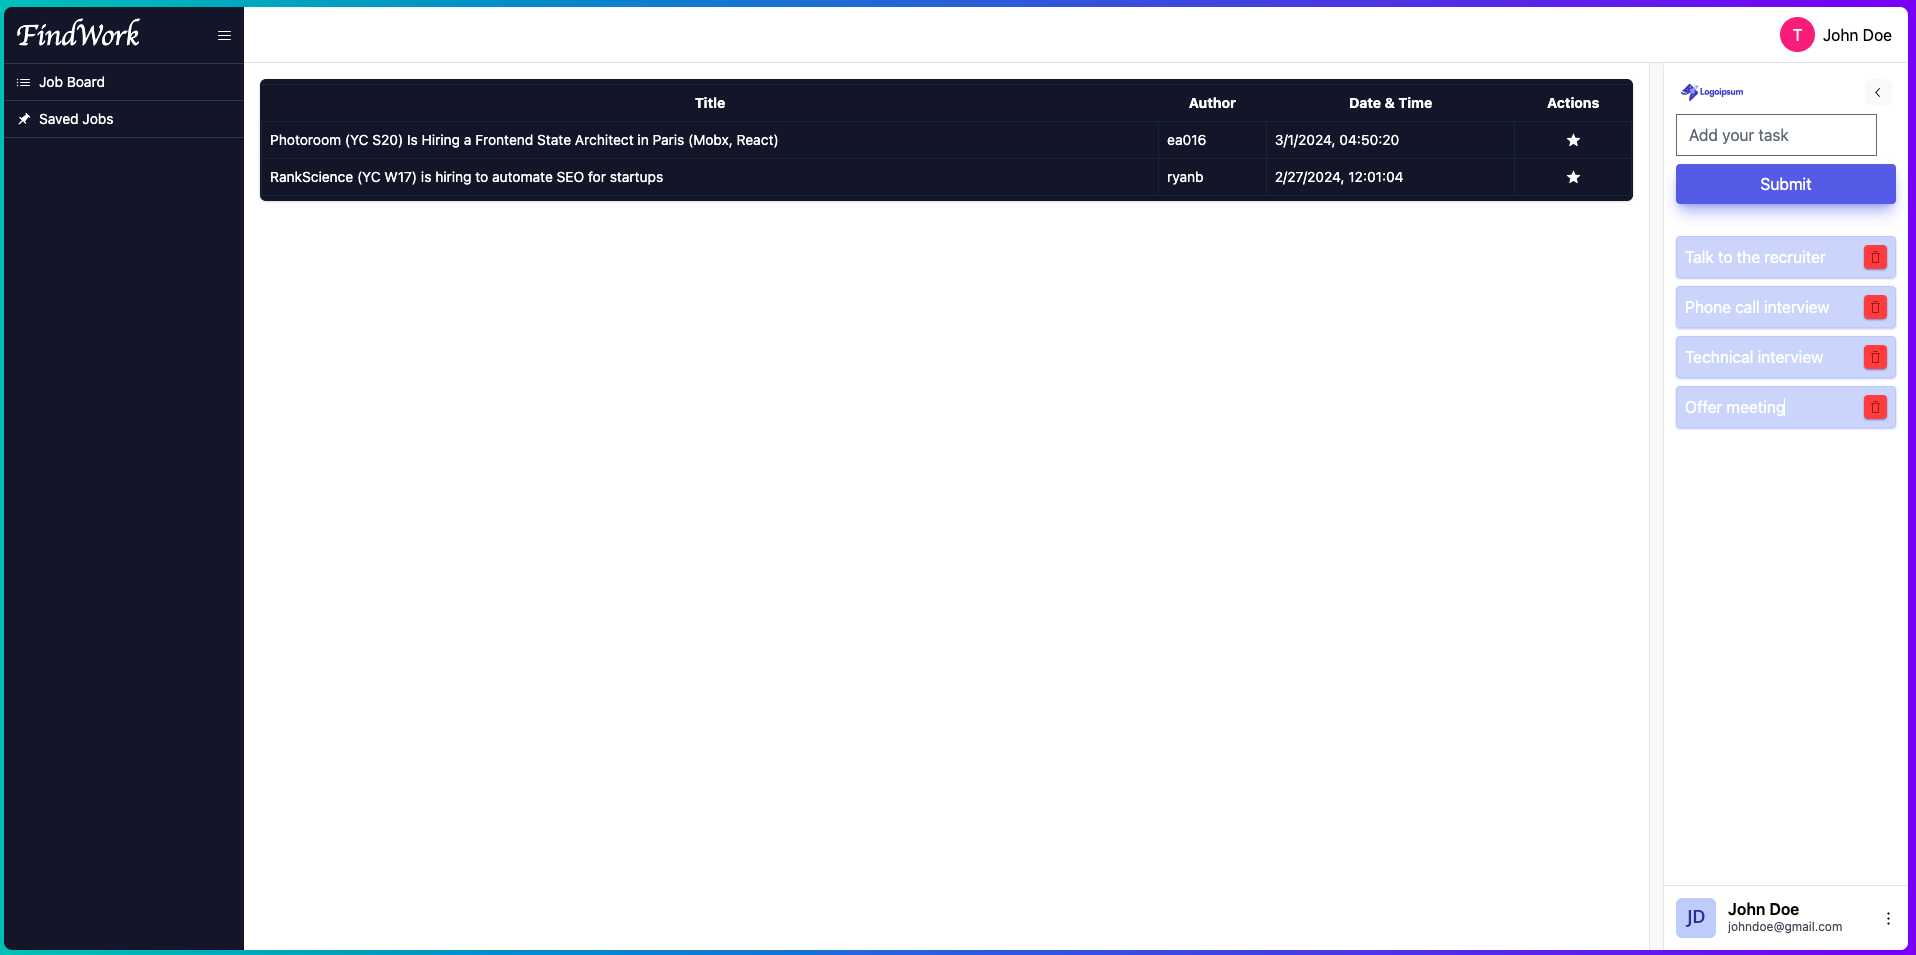
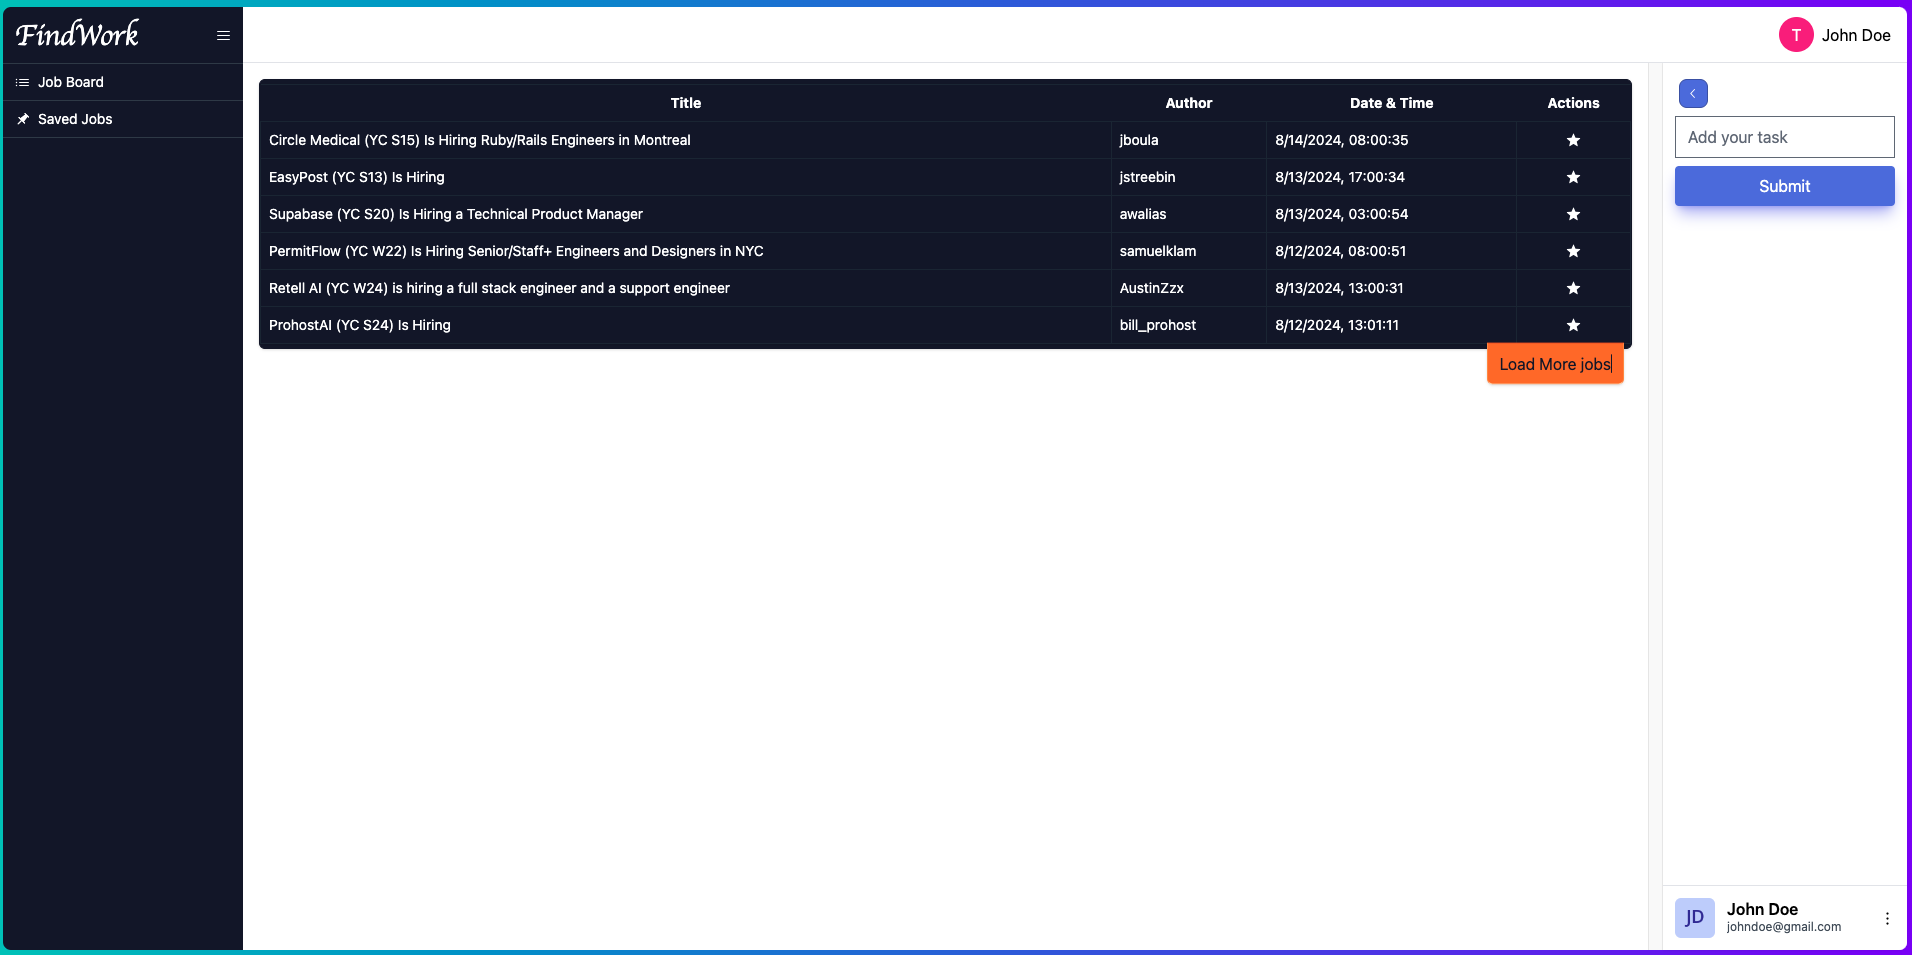
chore - small changes to todo list; replace screenshot for readme

diff --git a/src/tailwind-index.css b/src/tailwind-index.css
@@ -1080,7 +1080,7 @@ select {
   border-top-width: 2px;
 }
 
-.border-\[\#12172e\] {
+.border-fw-blue-900 {
   --tw-border-opacity: 1;
   border-color: rgb(18 23 46 / var(--tw-border-opacity));
 }
@@ -1114,6 +1114,16 @@ select {
   border-color: rgb(245 245 244 / var(--tw-border-opacity));
 }
 
+.border-fw-blue-500 {
+  --tw-border-opacity: 1;
+  border-color: rgb(60 77 151 / var(--tw-border-opacity));
+}
+
+.border-fw-blue-400 {
+  --tw-border-opacity: 1;
+  border-color: rgb(71 90 177 / var(--tw-border-opacity));
+}
+
 .border-b-orange-200 {
   --tw-border-opacity: 1;
   border-bottom-color: rgb(254 215 170 / var(--tw-border-opacity));
@@ -1134,14 +1144,14 @@ select {
   border-top-color: rgb(234 88 12 / var(--tw-border-opacity));
 }
 
-.bg-\[\#12172e\] {
-  --tw-bg-opacity: 1;
-  background-color: rgb(18 23 46 / var(--tw-bg-opacity));
-}
-
 .bg-blue-500 {
   --tw-bg-opacity: 1;
   background-color: rgb(59 130 246 / var(--tw-bg-opacity));
+}
+
+.bg-fw-blue-900 {
+  --tw-bg-opacity: 1;
+  background-color: rgb(18 23 46 / var(--tw-bg-opacity));
 }
 
 .bg-gray-50 {
@@ -1201,6 +1211,21 @@ select {
 .bg-white {
   --tw-bg-opacity: 1;
   background-color: rgb(255 255 255 / var(--tw-bg-opacity));
+}
+
+.bg-fw-blue-100 {
+  --tw-bg-opacity: 1;
+  background-color: rgb(102 130 255 / var(--tw-bg-opacity));
+}
+
+.bg-fw-blue-300 {
+  --tw-bg-opacity: 1;
+  background-color: rgb(81 103 203 / var(--tw-bg-opacity));
+}
+
+.bg-fw-blue-200 {
+  --tw-bg-opacity: 1;
+  background-color: rgb(92 117 229 / var(--tw-bg-opacity));
 }
 
 .bg-gradient-to-r {
@@ -1362,14 +1387,14 @@ select {
   line-height: 1rem;
 }
 
-.text-\[\#12172e\] {
-  --tw-text-opacity: 1;
-  color: rgb(18 23 46 / var(--tw-text-opacity));
-}
-
 .text-black {
   --tw-text-opacity: 1;
   color: rgb(0 0 0 / var(--tw-text-opacity));
+}
+
+.text-fw-blue-900 {
+  --tw-text-opacity: 1;
+  color: rgb(18 23 46 / var(--tw-text-opacity));
 }
 
 .text-gray-600 {
@@ -1537,6 +1562,16 @@ body {
 .hover\:bg-slate-900:hover {
   --tw-bg-opacity: 1;
   background-color: rgb(15 23 42 / var(--tw-bg-opacity));
+}
+
+.hover\:bg-fw-blue-500:hover {
+  --tw-bg-opacity: 1;
+  background-color: rgb(60 77 151 / var(--tw-bg-opacity));
+}
+
+.hover\:bg-fw-blue-100:hover {
+  --tw-bg-opacity: 1;
+  background-color: rgb(102 130 255 / var(--tw-bg-opacity));
 }
 
 .hover\:shadow-md:hover {

diff --git a/src/components/JobBoard/JobBoard.jsx b/src/components/JobBoard/JobBoard.jsx
@@ -67,19 +67,21 @@ const JobBoard = () => {
 
   return (
     <div className="overflow-y-scroll w-full">
-      {/* <div className="mx-6 rounded-t-md translate-y-[1.3rem] text-2xl bg-orange-500 px-4 py-2 text-[#12172e] z-10">
+      {/* <div className="mx-6 rounded-t-md translate-y-[1.3rem] text-2xl bg-orange-500 px-4 py-2 text-fw-blue-900 z-10">
         Hacker News Jobs Board
       </div> */}
-      <div className="m-4 border-[#12172e] border bg-[#12172e] rounded-md py-1 shadow">
+      <div className="m-4 border-fw-blue-900 border bg-fw-blue-900 rounded-md py-1 shadow">
         <table class="table-auto w-full shadow border-t border-slate-800">
           <thead>
             <tr>
-              <th className="bg-[#12172e] p-2 text-sm text-white">Title</th>
-              <th className="bg-[#12172e] p-2 text-sm text-white">Author</th>
-              <th className="bg-[#12172e] p-2 text-sm text-white">
+              <th className="bg-fw-blue-900 p-2 text-sm text-white">Title</th>
+              <th className="bg-fw-blue-900 p-2 text-sm text-white">Author</th>
+              <th className="bg-fw-blue-900 p-2 text-sm text-white">
                 Date & Time
               </th>
-              <th className="bg-[#12172e] p-2 text-sm  text-white">Actions</th>
+              <th className="bg-fw-blue-900 p-2 text-sm  text-white">
+                Actions
+              </th>
             </tr>
           </thead>
           <tbody>
@@ -93,7 +95,7 @@ const JobBoard = () => {
         <div className="flex gap-2 justify-end items-start -translate-y-[1.4rem] mr-6">
           <button
             onClick={handleLoadMore}
-            className="text-[#12172e] px-3 py-2 rounded-b-md shadow bg-orange-500 border border-t-orange-600 border-r-orange-400 border-l-orange-400 border-b-orange-200"
+            className="text-fw-blue-900 px-3 py-2 rounded-b-md shadow bg-orange-500 border border-t-orange-600 border-r-orange-400 border-l-orange-400 border-b-orange-200"
           >
             Load More jobs
           </button>

diff --git a/src/components/SavedJobs/SavedJobs.jsx b/src/components/SavedJobs/SavedJobs.jsx
@@ -17,16 +17,18 @@ const SavedJobs = () => {
 
   return (
     <div className="overflow-y-scroll w-full">
-      <div className="m-4 border-[#12172e] border bg-[#12172e] rounded-md py-1 shadow">
+      <div className="m-4 border-fw-blue-900 border bg-fw-blue-900 rounded-md py-1 shadow">
         <table className="table-auto w-full shadow border-t border-slate-800">
           <thead>
             <tr>
-              <th className="bg-[#12172e] p-2 text-sm text-white">Title</th>
-              <th className="bg-[#12172e] p-2 text-sm text-white">Author</th>
-              <th className="bg-[#12172e] p-2 text-sm text-white">
+              <th className="bg-fw-blue-900 p-2 text-sm text-white">Title</th>
+              <th className="bg-fw-blue-900 p-2 text-sm text-white">Author</th>
+              <th className="bg-fw-blue-900 p-2 text-sm text-white">
                 Date & Time
               </th>
-              <th className="bg-[#12172e] p-2 text-sm  text-white">Actions</th>
+              <th className="bg-fw-blue-900 p-2 text-sm  text-white">
+                Actions
+              </th>
             </tr>
           </thead>
           <tbody>

diff --git a/src/components/ToDoList/ToDoList.jsx b/src/components/ToDoList/ToDoList.jsx
@@ -9,9 +9,6 @@ function ToDoList() {
   const errors = useSelector((state) => state.todos.todos);
   const allToDosLoading = useSelector((state) => state.todos.todos);
 
-  console.log(allToDos);
-  console.log(allToDosLoading);
-
   const titleRef = useRef('');
   const dispatch = useDispatch();
 
@@ -37,11 +34,16 @@ function ToDoList() {
   return (
     <>
       <div>
-        <input type="text" placeholder="Add your task" ref={titleRef} />
+        <input
+          type="text"
+          placeholder="Add your task"
+          className="w-full"
+          ref={titleRef}
+        />
         <div className="my-2">
           <button
             onClick={addToDo}
-            className="bg-indigo-500 shadow-lg shadow-indigo-500/50 rounded p-2 w-full text-white"
+            className="bg-fw-blue-200 hover:bg-fw-blue-100 shadow-lg shadow-indigo-500/50 rounded p-2 w-full text-white"
           >
             Submit
           </button>

diff --git a/src/components/common/MainSidebar.jsx b/src/components/common/MainSidebar.jsx
@@ -14,16 +14,9 @@ export default function MainSidebar({ children }) {
     <aside>
       <nav className="h-full flex flex-col bg-white rounded-br-lg shadow-sm">
         <div className="p-4 pb-2 flex justify-between items-center">
-          <img
-            src="https://img.logoipsum.com/243.svg"
-            className={`overflow-hidden transition-all ${
-              expanded ? 'w-16' : 'w-0'
-            }`}
-            alt=""
-          />
           <button
             onClick={() => setExpanded((curr) => !curr)}
-            className="p-1.5 rounded-lg bg-gray-50 hover:bg-gray-100"
+            className="p-1.5 rounded-lg bg-fw-blue-200 hover:bg-fw-blue-100 text-white border border-fw-blue-400"
           >
             {expanded ? <ChevronLeftIcon /> : <ChevronRightIcon />}
           </button>

diff --git a/tailwind.config.js b/tailwind.config.js
@@ -4,7 +4,21 @@ export default {
     './src/**/*.{html,js,jsx}'
   ],
   theme: {
-    extend: {},
+    extend: {
+      colors: {
+        'fw-blue': {
+          100: '#6682FF',
+          200: '#5C75E5',
+          300: '#5167CB',
+          400: '#475AB1',
+          500: '#3C4D97',
+          600: '#323F7C',
+          700: '#273262',
+          800: '#1D2448',
+          900: '#12172E',
+        }
+      }
+    },
   },
   plugins: [
     require('@tailwindcss/forms')

diff --git a/src/components/JobDetails/JobDetails.jsx b/src/components/JobDetails/JobDetails.jsx
@@ -22,7 +22,7 @@ const JobDetails = ({ details }) => {
   };
 
   return (
-    <tr key={id} className="bg-[#12172e] text-white">
+    <tr key={id} className="bg-fw-blue-900 text-white">
       <td className="border border-slate-800 p-2 text-sm">
         <Title title={title} url={url} />
       </td>
